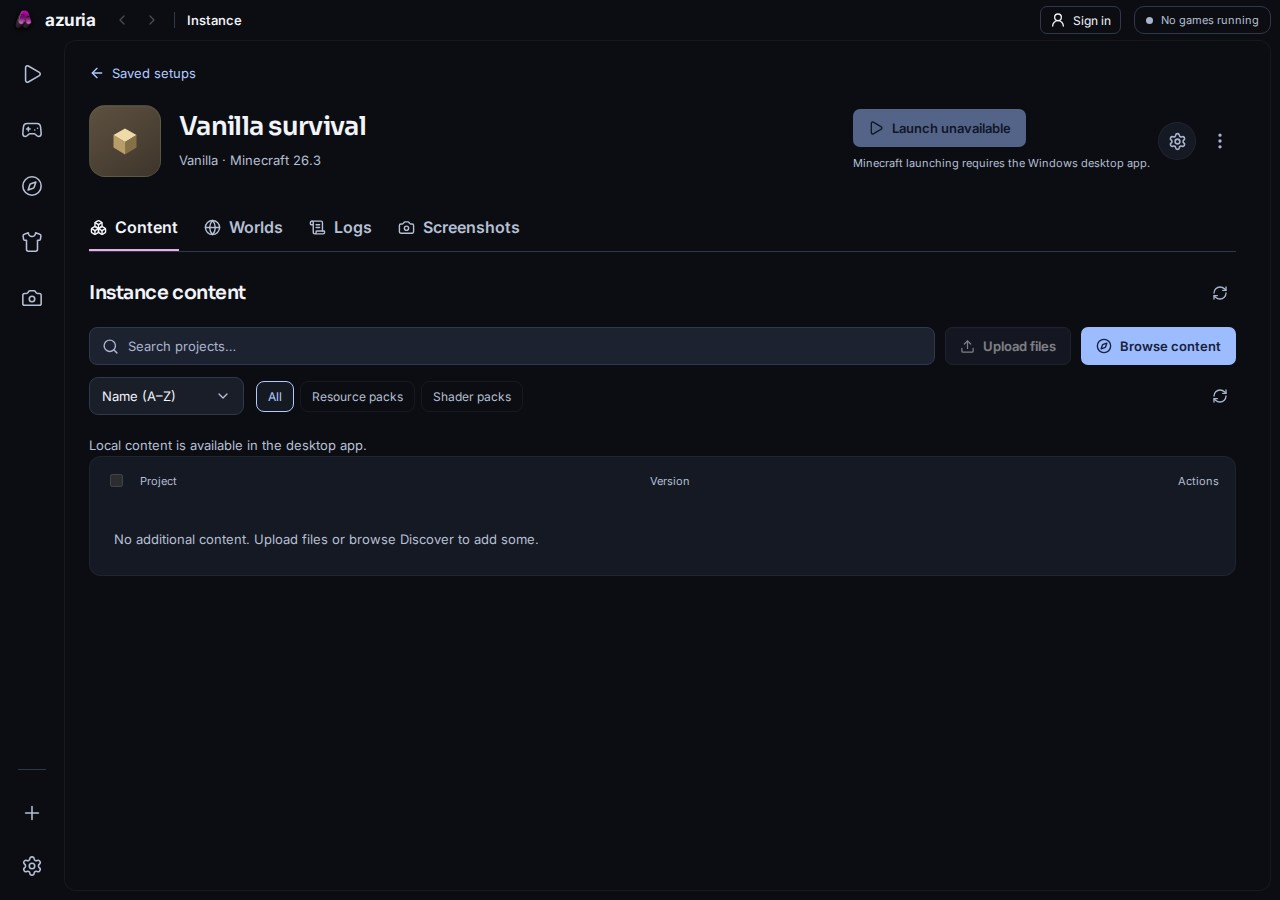
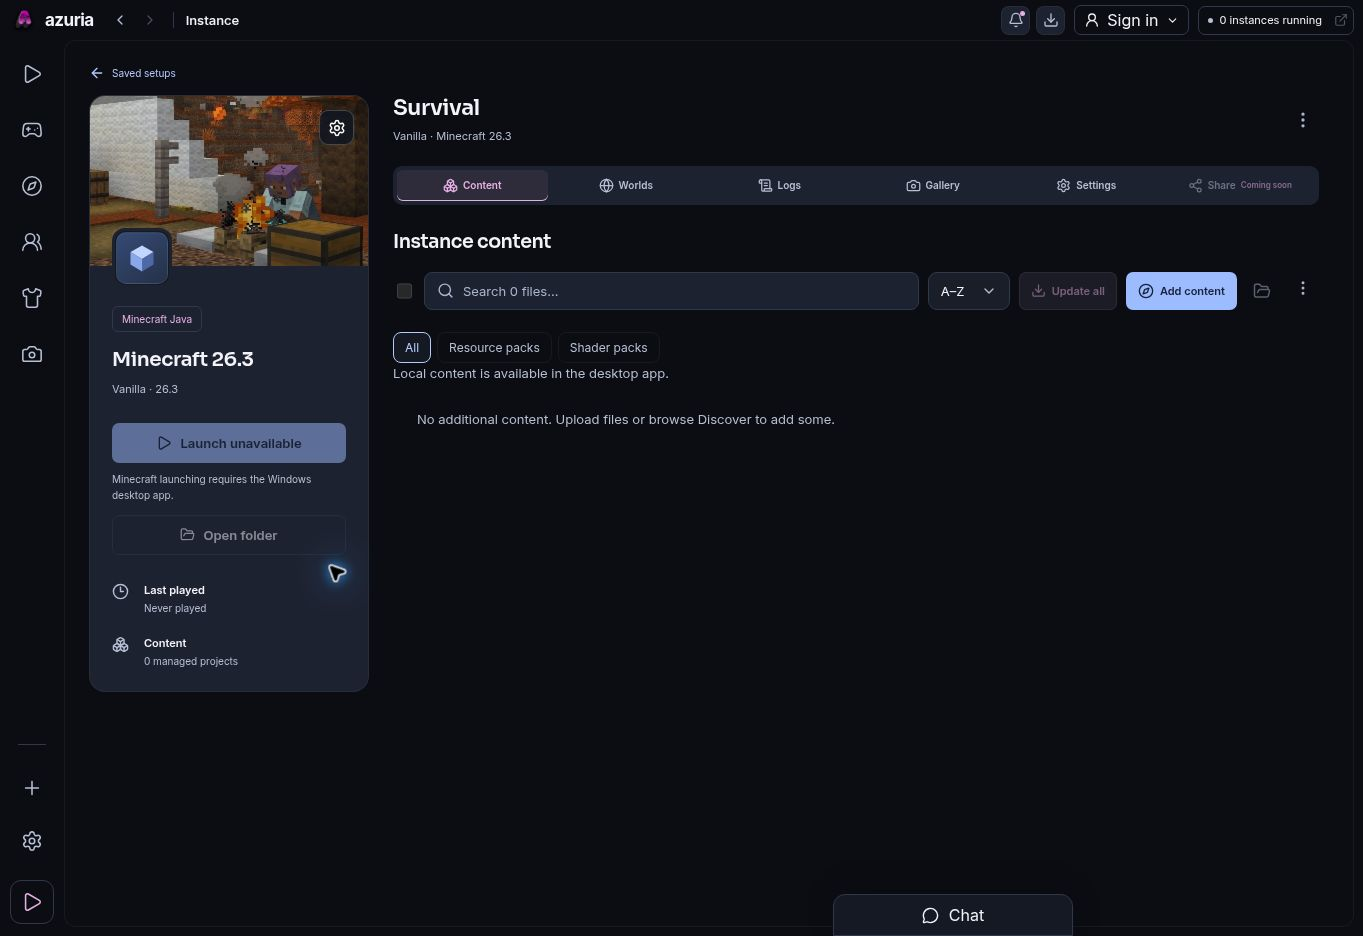
Refresh website screenshots from the current launcher interface

diff --git a/apps/frontend/src/premium.css b/apps/frontend/src/premium.css
@@ -147,7 +147,7 @@
   display: block;
   width: 100%;
   height: auto;
-  aspect-ratio: 1280/900;
+  aspect-ratio: 1363/936;
   border-radius: 10px;
 }
 .premium-home .hero-shot figcaption {
@@ -238,7 +238,7 @@
   display: block;
   width: 100%;
   height: auto;
-  aspect-ratio: 1280/900;
+  aspect-ratio: 1363/936;
   border-radius: 8px;
 }
 .premium-section-top {
@@ -336,7 +336,7 @@
   display: block;
   width: 100%;
   height: auto;
-  aspect-ratio: 1280/900;
+  aspect-ratio: 1363/936;
   transform-origin: center;
 }
 .preview-stack > .preview-previous {

diff --git a/apps/azuria-studios/frontend/src/home.html b/apps/azuria-studios/frontend/src/home.html
@@ -65,7 +65,7 @@
           <img
             class="as-screen"
             src="/assets/launcher-home.jpg"
-            alt="Updated Azuria Launcher Home screen with Play navigation, blurred Minecraft scenery, version selection and launch button"
+            alt="Azuria Launcher Home with a Minecraft character preview, saved profile launch cards, news, friends and sponsor slots"
           />
         </div>
       </article>

diff --git a/apps/frontend/src/site.css b/apps/frontend/src/site.css
@@ -1212,7 +1212,7 @@ details > p {
 .appearance-shot img,
 .hero-shot img {
   height: auto;
-  aspect-ratio: 1280 / 900;
+  aspect-ratio: 1363 / 936;
 }
 .section-topline > *,
 .download-layout > *,

diff --git a/apps/frontend/README.md b/apps/frontend/README.md
@@ -40,7 +40,9 @@ Changing the ID requests fresh consent. Cookie settings allows withdrawal. Prefe
 
 ## Current interface captures
 
-The JPEG captures in `assets/` were refreshed from the launcher frontend after the portrait Versions catalogue and live appearance previews were added. Home is used for the hero, social preview and dark/light comparison; Versions shows the portrait cards and right launch panel. Captures are 1280×900 and use sample local setups. The skin screen uses the official Steve texture as sample data. No screenshot is generated or composited. Source credits are in `assets/MINECRAFT-CREDIT.txt`.
+The seven JPEG captures in `assets/` were refreshed on 9 November 2026 from the current launcher frontend at source commit `3a487678164aaa07d37b2159afa8c6181256361c`. They show Home in dark and light themes, the consolidated Profiles collection, profile content details, the one-page Create instance dialog, Wardrobe’s Skins tab and Appearance settings. Each capture is 1363×936. The Studios product card reuses the identical dark Home capture; launcher social previews reuse `home.jpg`.
+
+These are direct browser-preview captures with two illustrative local profiles, Survival (Vanilla 26.3) and Fabric Adventure (Fabric 26.1). No account is signed in and no gameplay is simulated. Desktop-only actions remain visibly unavailable, saved skins are empty, Steve is the default appearance, and news/friend/sponsor empty states are intentional. The source preview displays its development version in Settings; release versions are assigned during packaging. No application screenshot is generated or composited. Source credits are in `assets/MINECRAFT-CREDIT.txt`.
 
 ## News publishing
 

diff --git a/apps/azuria-studios/frontend/README.md b/apps/azuria-studios/frontend/README.md
@@ -21,7 +21,7 @@ The privacy contact links to the existing launcher contact page. Update it when 
 
 ## Assets
 
-Azuria brand assets and the current launcher Home screenshot are included locally. `assets/launcher-home.jpg` is the same 1280×900 capture used by the launcher website, refreshed after the Play navigation and hero blur changes. Inter is distributed under the included `assets/INTER-LICENSE.txt`. The launcher screenshot contains Minecraft scenery from Karbin_Drem's Distant Shaded Panoramas, licensed CC BY-SA 4.0: https://modrinth.com/resourcepack/karbin-panoramas and https://creativecommons.org/licenses/by-sa/4.0/. The screenshot shows the Azuria interface over that scenery. Minecraft is a trademark of Mojang/Microsoft; this site is not affiliated with them.
+Azuria brand assets and the current launcher Home screenshot are included locally. `assets/launcher-home.jpg` is the identical 1363×936 dark Home capture used by the launcher website, refreshed on 9 November 2026 from source commit `3a487678164aaa07d37b2159afa8c6181256361c`. It shows the current character scene, profile cards, news, friends and sponsor slots using illustrative local profiles in the browser preview. Inter is distributed under the included `assets/INTER-LICENSE.txt`. The launcher screenshot contains Minecraft scenery from Karbin_Drem's Distant Shaded Panoramas, licensed CC BY-SA 4.0: https://modrinth.com/resourcepack/karbin-panoramas and https://creativecommons.org/licenses/by-sa/4.0/. The screenshot shows the Azuria interface over that scenery. Minecraft is a trademark of Mojang/Microsoft; this site is not affiliated with them.
 
 ## Google Analytics (GA4)
 
